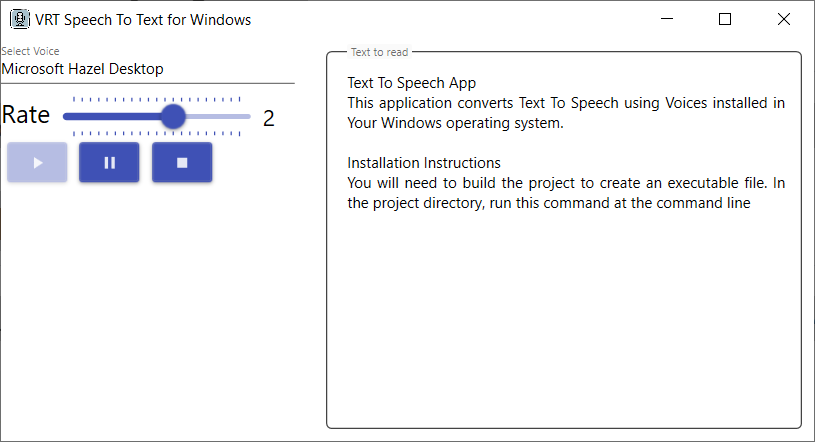
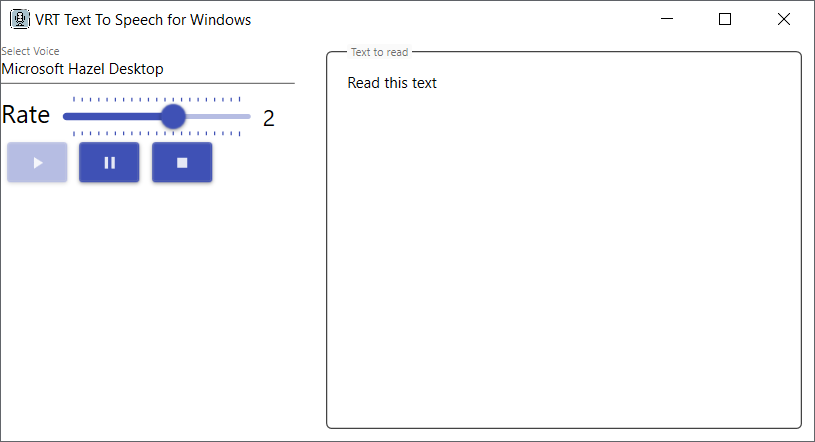
Update main window title and doc screenshot

Changed region(s): [[0.4294, 0.3529, 0.9816, 0.4706], [0.4294, 0.1765, 0.9509, 0.2941], [0.0613, 0.0294, 0.2147, 0.0588]]

diff --git a/VRT.TextToSpeech.Wpf/MainWindow.xaml b/VRT.TextToSpeech.Wpf/MainWindow.xaml
@@ -6,7 +6,7 @@
         xmlns:local="clr-namespace:VRT.TextToSpeech.Wpf"
         xmlns:material="http://materialdesigninxaml.net/winfx/xaml/themes"
         mc:Ignorable="d"
-        Title="VRT Speech To Text for Windows" Height="360" Width="665"
+        Title="VRT Text To Speech for Windows" Height="360" Width="665"
         WindowStartupLocation="CenterScreen"
         >
     <Grid>
